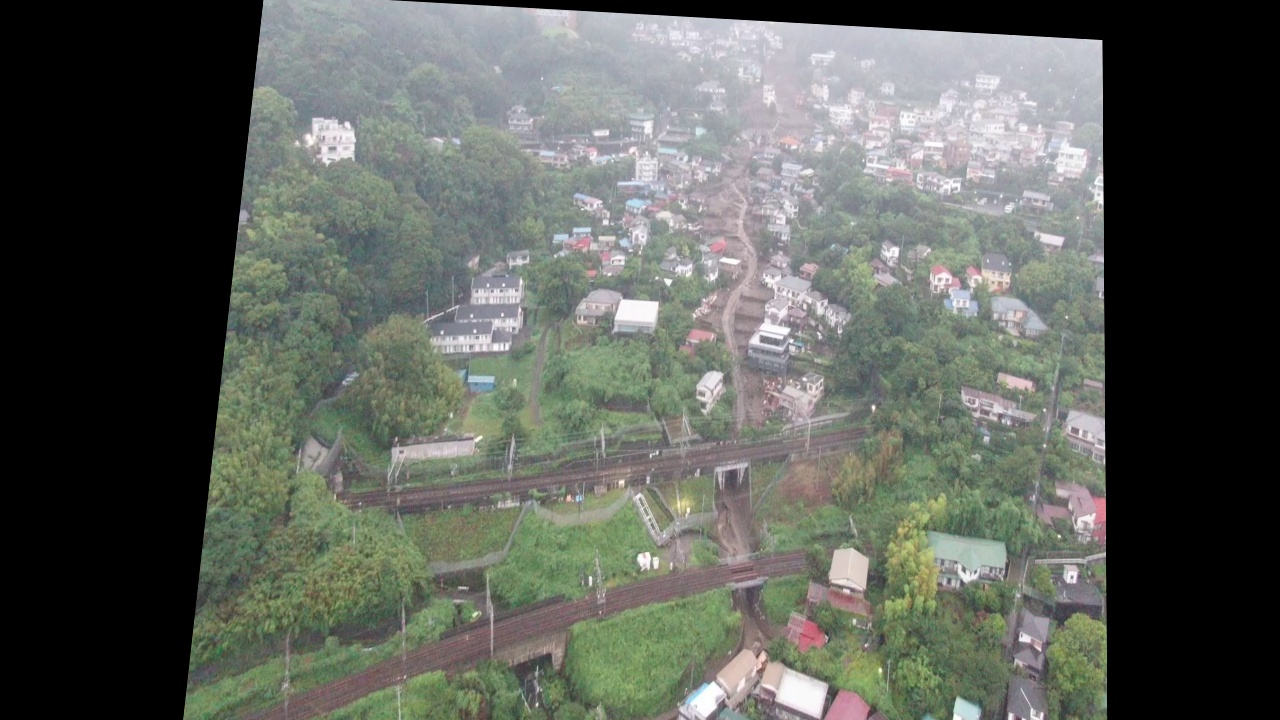
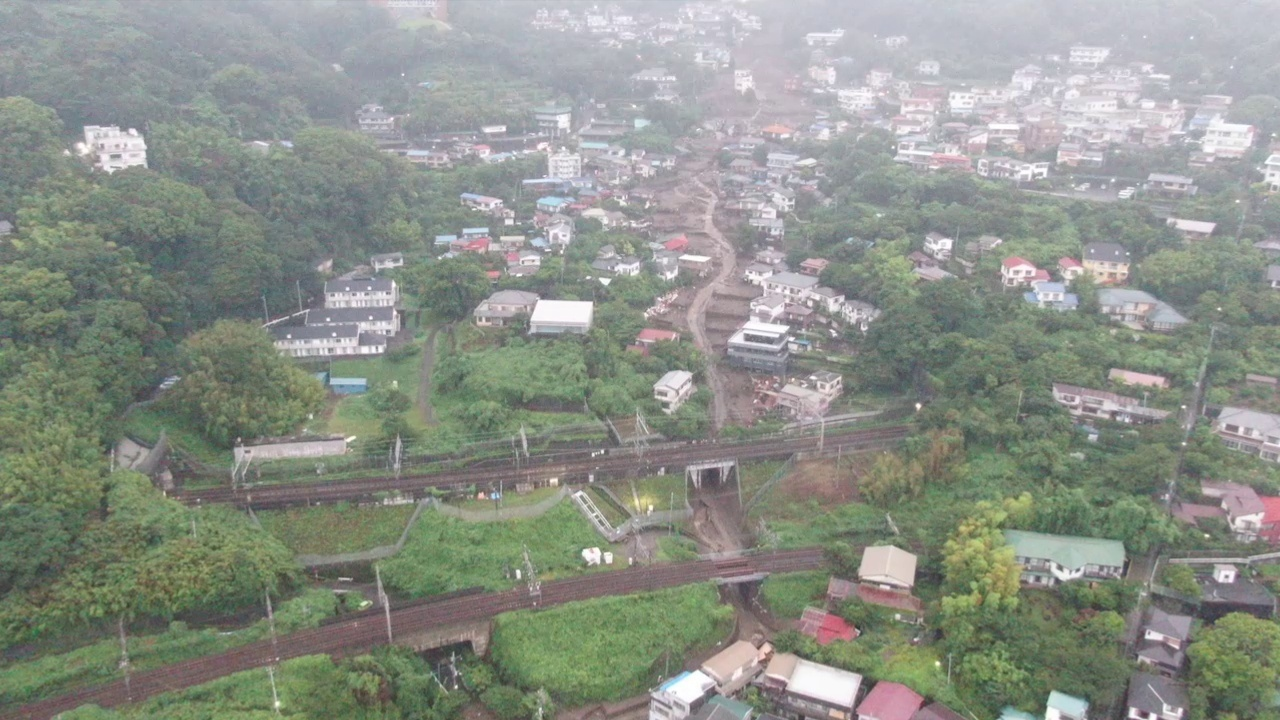
再帰的にSIFTを用い画像を貼り合わせられるようにした

diff --git a/VideoFrame_Registration.py b/VideoFrame_Registration.py
@@ -1,0 +1,57 @@
+import numpy as np
+import cv2
+
+def main():
+    cv2.imwrite('img/result/result_warped.jpg', 
+        FeatureMatching_And_Warped('../atami_frame/result_frame_img_', 3840, 3845, 1))
+
+
+# 再帰的にSIFTによる特徴点記述とマッチングを行う関数
+def FeatureMatching_And_Warped(img_path, FirstFrame_num, ProcessingFrame_num, Frame_step):
+    # 画像読み込み
+    if ProcessingFrame_num - Frame_step == FirstFrame_num:
+        img01 = cv2.imread(img_path + str(FirstFrame_num) + '.jpg')
+        img01 = cv2.cvtColor(img01, cv2.COLOR_BGR2RGB)
+        img02 = cv2.imread(img_path + str(ProcessingFrame_num) + '.jpg')
+        img02 = cv2.cvtColor(img02, cv2.COLOR_BGR2RGB)
+    else:
+        img01 = FeatureMatching_And_Warped(img_path, FirstFrame_num, ProcessingFrame_num - Frame_step, Frame_step)
+        img01 = cv2.cvtColor(img01, cv2.COLOR_BGR2RGB)
+        img02 = cv2.imread(img_path + str(ProcessingFrame_num) + '.jpg')
+        img02 = cv2.cvtColor(img02, cv2.COLOR_BGR2RGB)
+
+    # キーポイントの検出と特徴の記述
+    sift = cv2.SIFT_create()
+    img01_kp, img01_des = sift.detectAndCompute(img01, None)
+    img02_kp, img02_des = sift.detectAndCompute(img02, None)
+
+    # 特徴のマッチング
+    bf = cv2.BFMatcher()
+    matches = bf.knnMatch(img01_des, img02_des, k=2)
+
+    # 正しいマッチングのみ保持
+    good_matches = []
+    for m, n in matches:
+        if m.distance < 0.75 * n.distance:
+            good_matches.append([m])
+
+    # 適切なキーポイントを選択
+    img02_matched_kpts = np.float32(
+        [img01_kp[m[0].queryIdx].pt for m in good_matches]).reshape(-1, 1, 2)
+    sensed_matched_kpts = np.float32(
+        [img02_kp[m[0].trainIdx].pt for m in good_matches]).reshape(-1, 1, 2)
+
+    # ホモグラフィを計算
+    H, status = cv2.findHomography(
+        img02_matched_kpts, sensed_matched_kpts, cv2.RANSAC, 5.0)
+
+    # 画像の変換と色をBGRに戻す
+    warped_image = cv2.warpPerspective(
+        img01, H, (img01.shape[1], img01.shape[0]))
+    warped_image = cv2.cvtColor(warped_image, cv2.COLOR_RGB2BGR)
+
+    return warped_image
+
+
+if __name__ == '__main__':
+        main()

diff --git a/Warped.py b/Warped.py
@@ -1,18 +1,20 @@
 import numpy as np
-import cv2 as cv
+import cv2
 
 # 画像読み込み
-img01 = cv.imread('../atami_frame/result_frame_img_3840.jpg')
-img02 = cv.imread('../atami_frame/result_frame_img_3870.jpg')
+img01 = cv2.imread('../atami_frame/result_frame_img_3840.jpg')
+img01 = cv2.cvtColor(img01, cv2.COLOR_BGR2RGB)
+img02 = cv2.imread('../atami_frame/result_frame_img_3841.jpg')
+img02 = cv2.cvtColor(img02, cv2.COLOR_BGR2RGB)
 
 # キーポイントの検出と特徴の記述
-akaze = cv.AKAZE_create()
-img01_kp, img01_des = akaze.detectAndCompute(img01, None)
-img02_kp, img02_des = akaze.detectAndCompute(img02, None)
+sift = cv2.SIFT_create()
+img01_kp, img01_des = sift.detectAndCompute(img01, None)
+img02_kp, img02_des = sift.detectAndCompute(img02, None)
 
 # 特徴のマッチング
-bf = cv.BFMatcher()
-matches = bf.knnMatch(img01_des, img01_des, k=2)
+bf = cv2.BFMatcher()
+matches = bf.knnMatch(img01_des, img02_des, k=2)
 
 # 正しいマッチングのみ保持
 good_matches = []
@@ -27,11 +29,12 @@ sensed_matched_kpts = np.float32(
     [img02_kp[m[0].trainIdx].pt for m in good_matches]).reshape(-1, 1, 2)
 
 # ホモグラフィを計算
-H, status = cv.findHomography(
-    img02_matched_kpts, sensed_matched_kpts, cv.RANSAC, 5.0)
+H, status = cv2.findHomography(
+    img02_matched_kpts, sensed_matched_kpts, cv2.RANSAC, 5.0)
 
-# 画像を変換
-warped_image = cv.warpPerspective(
+# 画像の変換と色をBGRに戻す
+warped_image = cv2.warpPerspective(
     img01, H, (img01.shape[1], img01.shape[0]))
+warped_image = cv2.cvtColor(warped_image, cv2.COLOR_RGB2BGR)
 
-cv.imwrite('img/result/result_warped_01.jpg', warped_image)
+cv2.imwrite('img/result/result_warped_01.jpg', warped_image)

diff --git a/FeatureMatching.py b/FeatureMatching.py
@@ -1,17 +1,19 @@
-import cv2 as cv
+import cv2
 
 # 画像読み込み
-img01 = cv.imread('../atami_frame/result_frame_img_3840.jpg')
-img02 = cv.imread('../atami_frame/result_frame_img_3870.jpg')
+img01 = cv2.imread('../atami_frame/result_frame_img_3840.jpg')
+img01 = cv2.cvtColor(img01, cv2.COLOR_BGR2RGB)
+img02 = cv2.imread('../atami_frame/result_frame_img_3841.jpg')
+img02 = cv2.cvtColor(img02, cv2.COLOR_BGR2RGB)
 
 # キーポイントの検出と特徴の記述
-akaze = cv.AKAZE_create()
-img01_kp, img01_des = akaze.detectAndCompute(img01, None)
-img02_kp, img02_des = akaze.detectAndCompute(img02, None)
+sift = cv2.SIFT_create()
+img01_kp, img01_des = sift.detectAndCompute(img01, None)
+img02_kp, img02_des = sift.detectAndCompute(img02, None)
 
 # 特徴のマッチング
-bf = cv.BFMatcher()
-matches = bf.knnMatch(img01_des, img01_des, k=2)
+bf = cv2.BFMatcher()
+matches = bf.knnMatch(img01_des, img02_des, k=2)
 
 # 正しいマッチングのみ保持
 good_matches = []
@@ -19,12 +21,13 @@ for m, n in matches:
     if m.distance < 0.75 * n.distance:
         good_matches.append([m])
 
-matches_img = cv.drawMatchesKnn(
+matches_img = cv2.drawMatchesKnn(
     img01,
     img01_kp,
     img02,
     img02_kp,
     good_matches,
     None,
-    flags=cv.DrawMatchesFlags_NOT_DRAW_SINGLE_POINTS)
-cv.imwrite('img/result/result_matches_01.jpg', matches_img)
+    flags=cv2.DrawMatchesFlags_NOT_DRAW_SINGLE_POINTS)
+
+cv2.imwrite('img/result/result_matches_01.jpg', matches_img)
